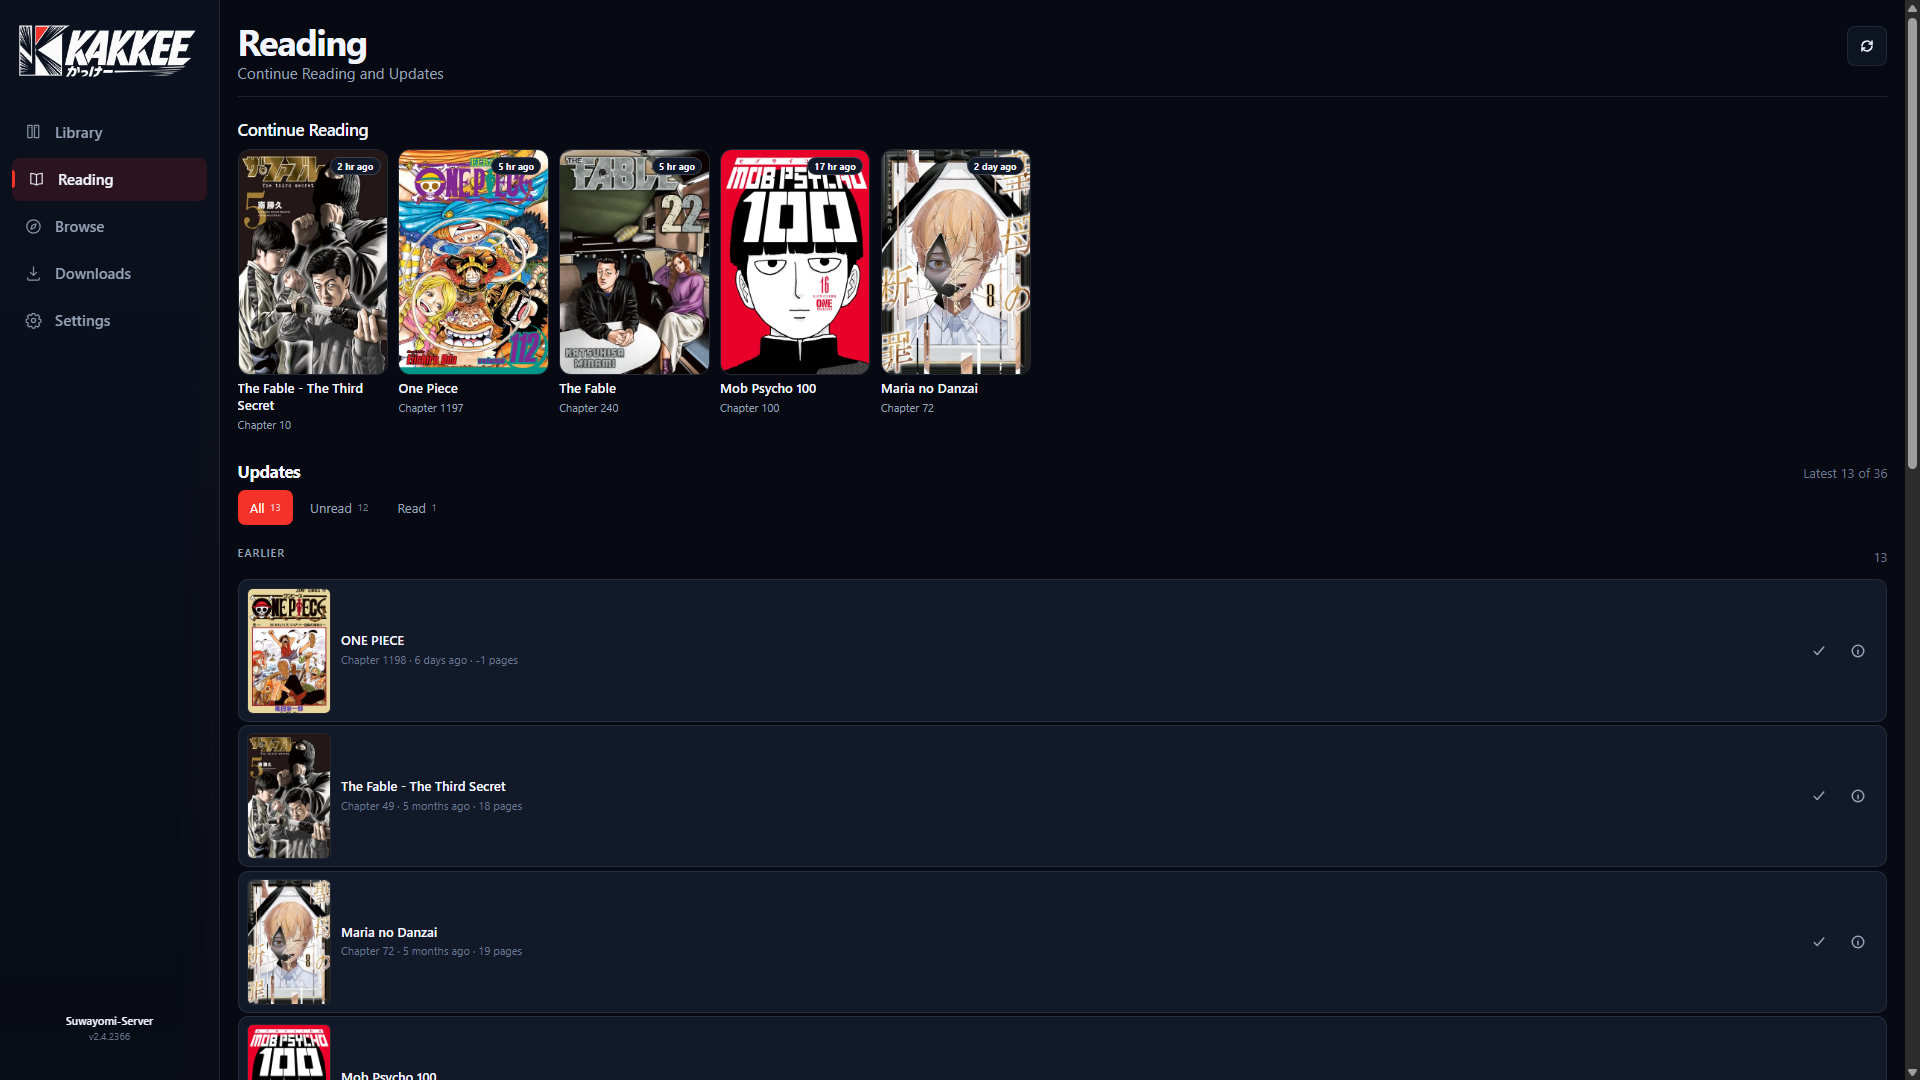
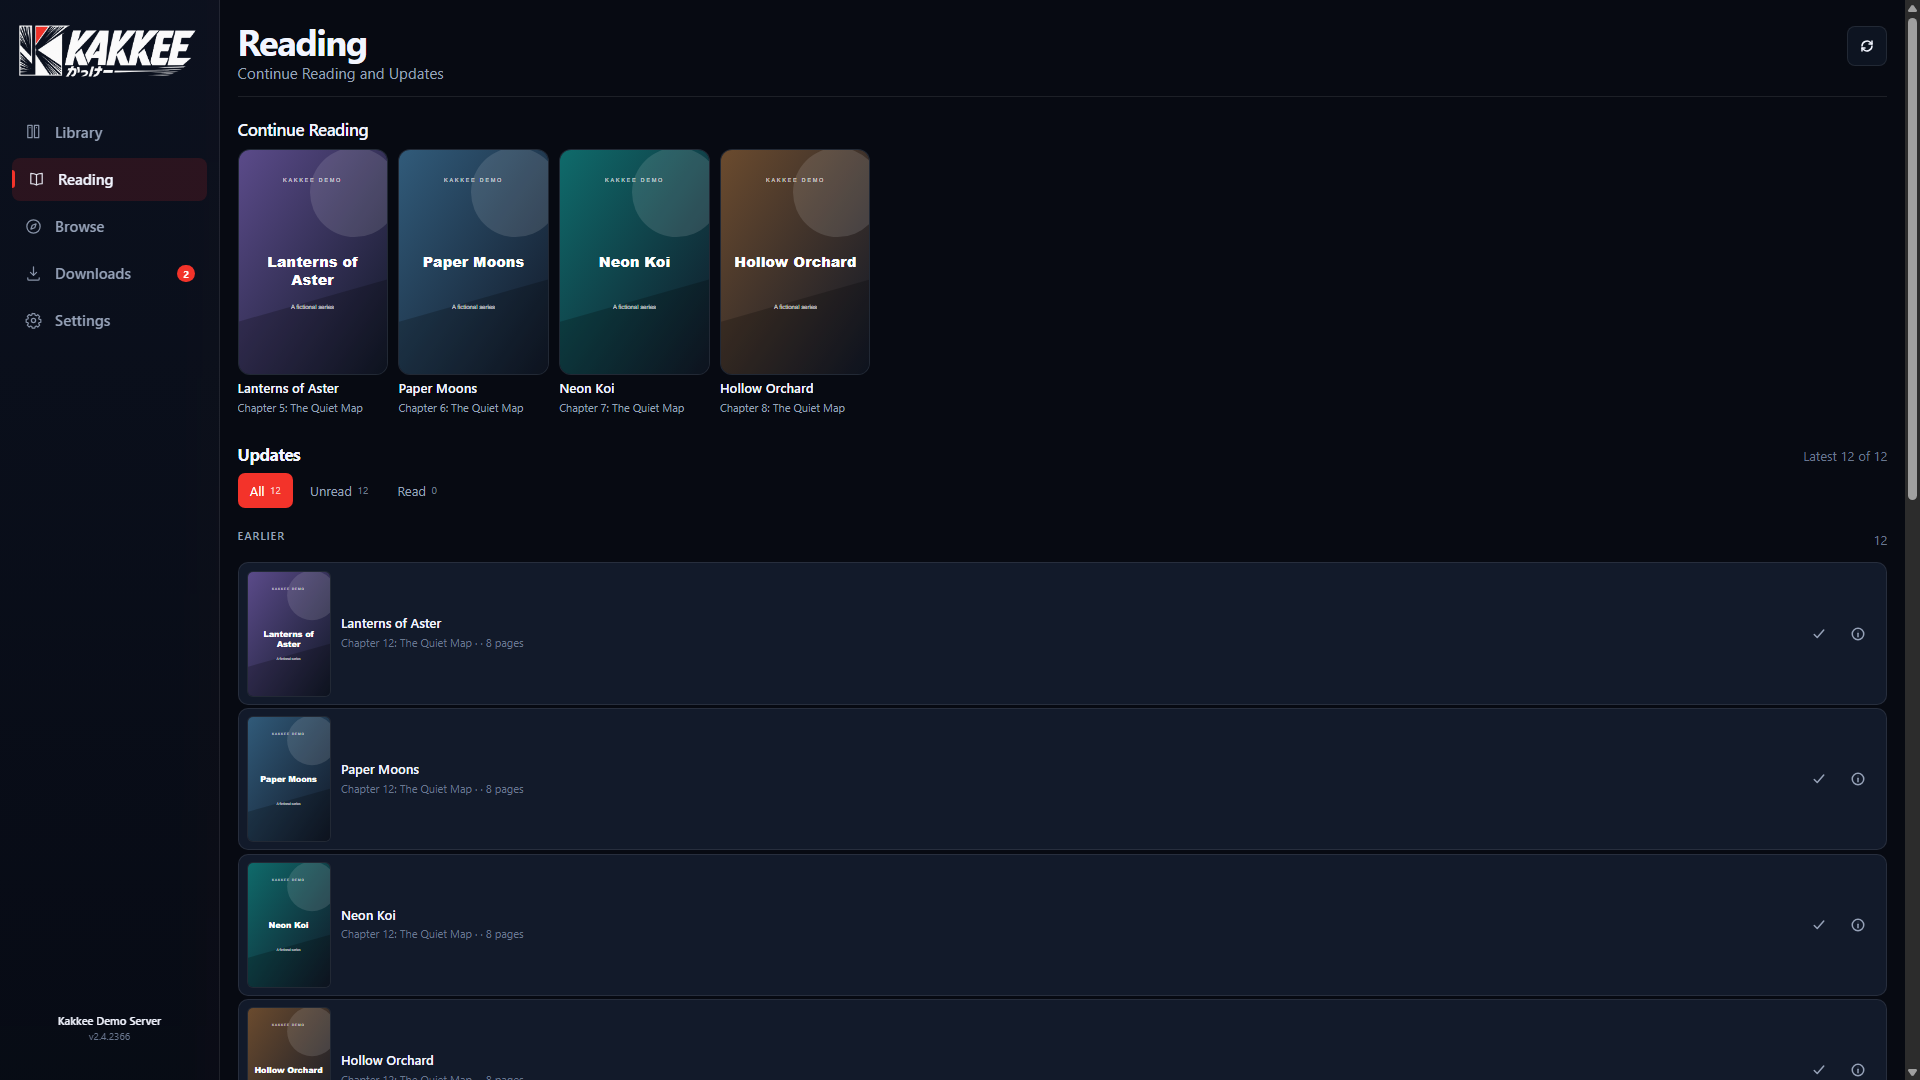
docs: add demo-backed screenshots for modes, reader, and device downloads

Changed region(s): [[0.0938, 0.1222, 0.5625, 1.0], [0.9375, 0.3972, 1.0, 0.4583], [0.0312, 0.9167, 0.0625, 0.9472]]

diff --git a/README.md b/README.md
@@ -24,7 +24,7 @@
   An independent, responsive frontend for <a href="https://github.com/Suwayomi/Suwayomi-Server">Suwayomi Server</a>.
 </p>
 
-![Kakkee Library](docs/screenshots/library.png)
+![Kakkee Library](docs/screenshots/library-cinematic.png)
 
 ## About
 
@@ -39,14 +39,50 @@ Kakkee is a React frontend for a self-hosted Suwayomi library. It is not a fork 
 
 ## Screenshots
 
+All screenshots use fictional demo content served by the local fixture server; no personal library data is included.
+
+### Three themes
+
 <table>
   <tr>
-    <td width="50%"><img src="docs/screenshots/reading.png" alt="Continue Reading and updates"></td>
-    <td width="50%"><img src="docs/screenshots/browse.png" alt="Browse sources"></td>
+    <td width="33%"><img src="docs/screenshots/library-cinematic.png" alt="Cinematic Dark theme"><br><sub>Cinematic Dark</sub></td>
+    <td width="33%"><img src="docs/screenshots/library-pure-black.png" alt="Pure Black theme"><br><sub>Pure Black</sub></td>
+    <td width="33%"><img src="docs/screenshots/library-snow-white.png" alt="Snow White theme"><br><sub>Snow White</sub></td>
+  </tr>
+</table>
+
+### Reading modes
+
+<table>
+  <tr>
+    <td width="50%"><img src="docs/screenshots/mode-ghost.png" alt="Ghost Mode"><br><sub>Ghost Mode</sub></td>
+    <td width="50%"><img src="docs/screenshots/mode-nsfw.png" alt="NSFW Mode"><br><sub>NSFW Mode</sub></td>
+  </tr>
+</table>
+
+### Library, search, and browsing
+
+<table>
+  <tr>
+    <td width="50%"><img src="docs/screenshots/reading.png" alt="Continue Reading and updates"><br><sub>Continue Reading</sub></td>
+    <td width="50%"><img src="docs/screenshots/search.png" alt="Global search"><br><sub>Multi-source search</sub></td>
   </tr>
   <tr>
-    <td width="50%"><img src="docs/screenshots/downloads.png" alt="Downloads"></td>
-    <td width="50%"><img src="docs/screenshots/settings.png" alt="Settings"></td>
+    <td width="50%"><img src="docs/screenshots/browse-pinned.png" alt="Browse with pinned sources"><br><sub>Pinned sources</sub></td>
+    <td width="50%"><img src="docs/screenshots/downloads-server.png" alt="Active server download queue"><br><sub>Server download queue</sub></td>
+  </tr>
+</table>
+
+### Detail, reader, and device library
+
+<table>
+  <tr>
+    <td width="50%"><img src="docs/screenshots/manga-detail.png" alt="Manga detail"><br><sub>Manga Detail</sub></td>
+    <td width="50%"><img src="docs/screenshots/reader.png" alt="Reader"><br><sub>Reader</sub></td>
+  </tr>
+  <tr>
+    <td width="50%"><img src="docs/screenshots/device-downloading.png" alt="Device download in progress"><br><sub>Device downloading</sub></td>
+    <td width="50%"><img src="docs/screenshots/device-library-page.png" alt="Device Downloaded Library"><br><sub>Device Downloaded Library</sub></td>
   </tr>
 </table>
 
@@ -113,6 +149,17 @@ Open the Vite URL, enter the Suwayomi server address, and connect. For local dev
 ```bash
 SUWAYOMI_SERVER_URL=http://127.0.0.1:4567 npm run dev
 ```
+
+### Demo fixture data
+
+The screenshots in this README are reproducible without a personal library. The local fixture server returns fictional titles, synthetic covers, reader pages, a server download queue, and device-download data:
+
+```bash
+npm run demo
+npm run dev
+```
+
+The demo server listens on `http://127.0.0.1:4567`, which is the default Vite proxy target. It is a screenshot/demo fixture, not a production server.
 
 ### Production build
 
@@ -190,7 +237,7 @@ Kakkee is under active development. The server integration and core reading flow
 
 This project is an independent client. It hosts no manga content and is not affiliated with the content sources or with Suwayomi.
 
-Screenshots use a personal library; manga covers and artwork belong to their respective owners.
+Screenshots use fictional demo content; any third-party artwork shown elsewhere belongs to its respective owners.
 
 ## License
 
